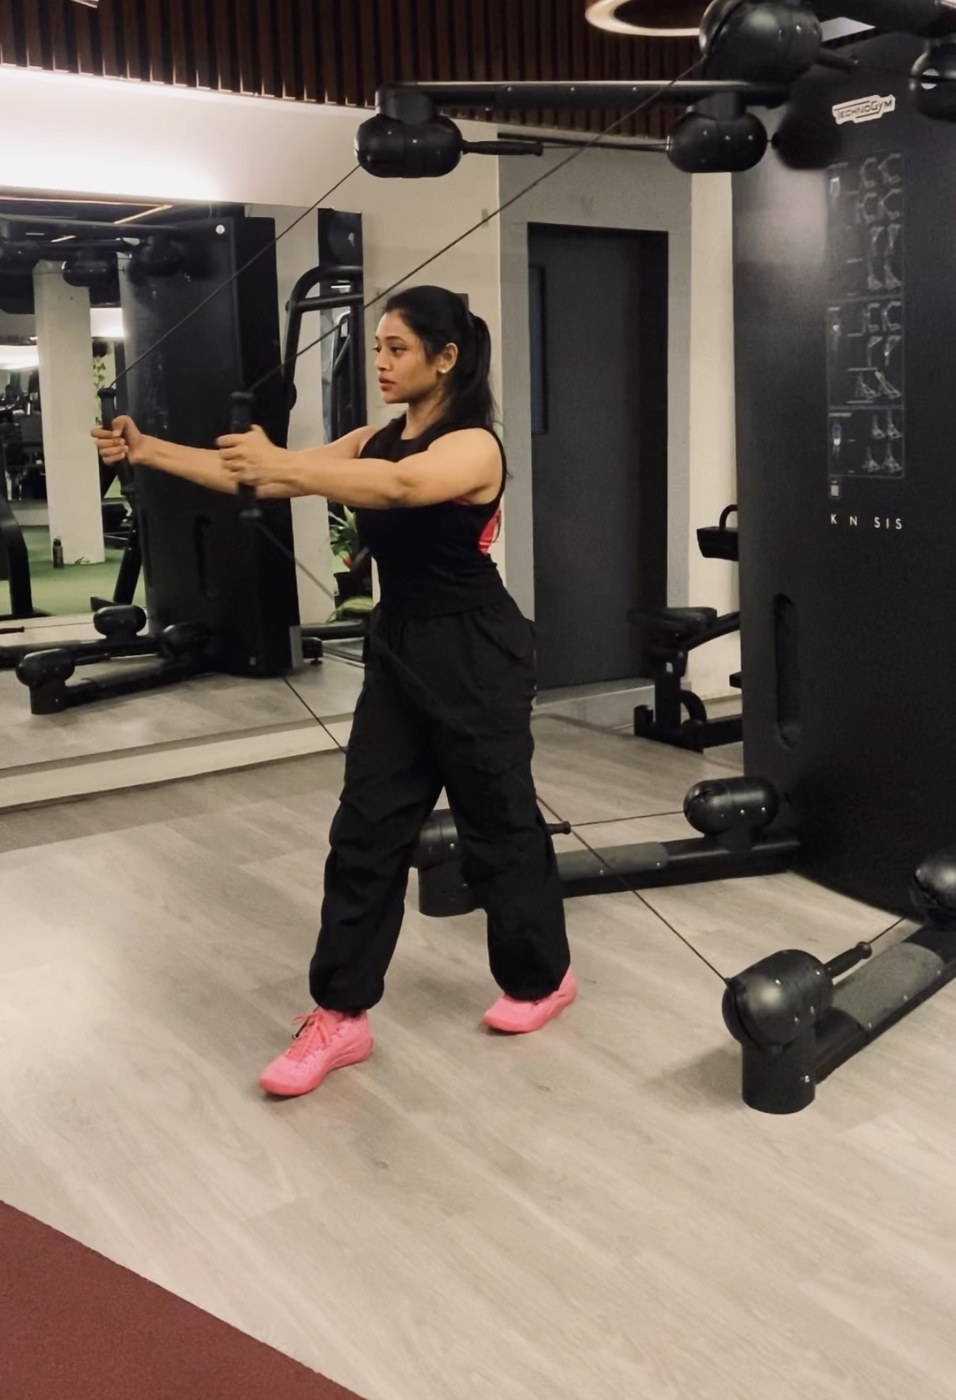
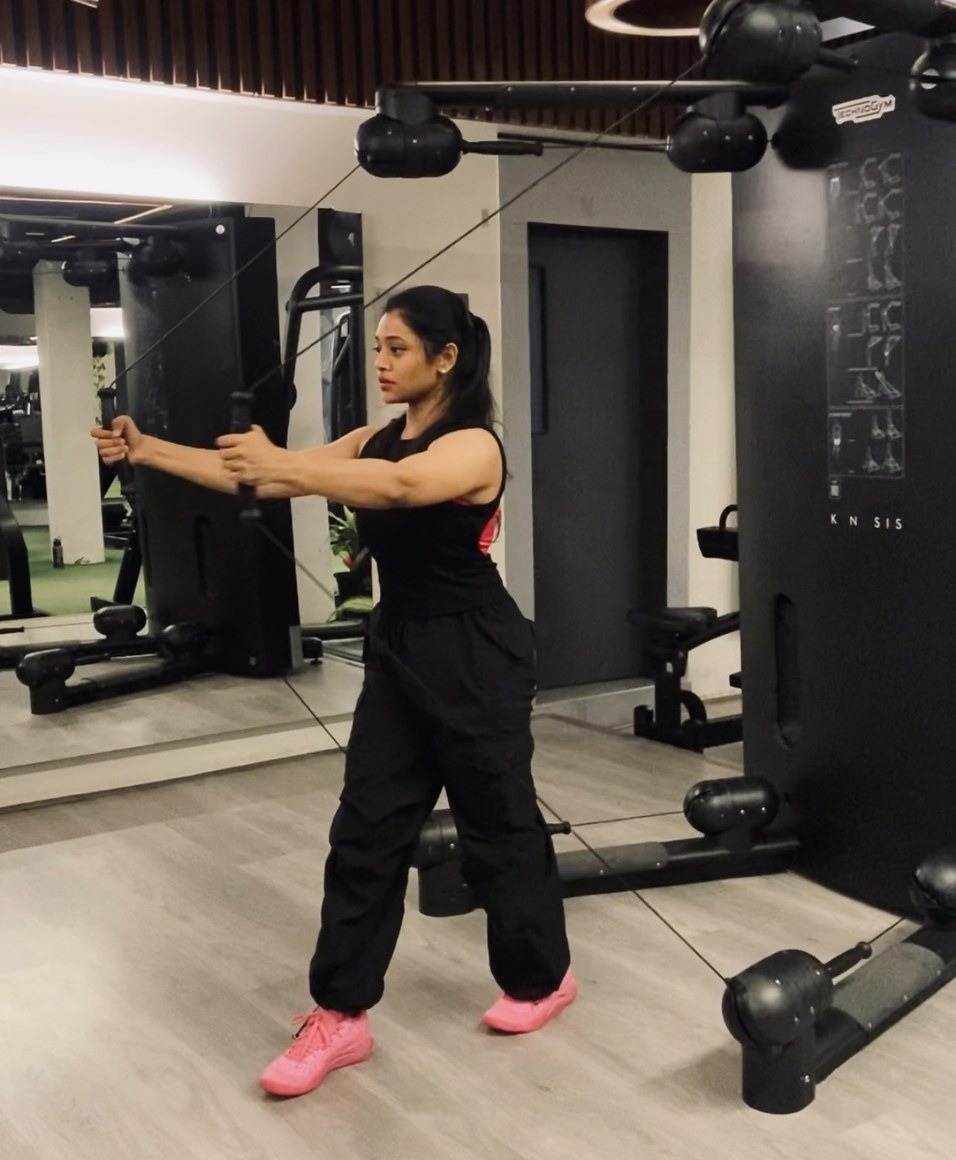
Crop training photo floor, enlarge coaching photo, add two more candid photos
- Crops excess empty floor from the training photo on the services page
  while keeping the shoes fully visible
- Increases the coaching photo size in the About page founder story
- Replaces the calculators page background with a new candid photo
- Adds a candid portrait as a low-opacity background on the contact page

diff --git a/calculators.html b/calculators.html
@@ -41,7 +41,7 @@
 <main>
 
   <div class="page-hero container">
-    <img src="images/meenu-candid.jpg" alt="" class="page-hero-photo-bg" aria-hidden="true">
+    <img src="images/meenu-breakfast.jpg" alt="" class="page-hero-photo-bg" aria-hidden="true">
     <p class="eyebrow">Free Tools</p>
     <h1>Nutrition Calculators</h1>
     <p>Quick estimates to get you oriented. These are general guides, not a substitute for a personalized plan.</p>

diff --git a/css/style.css b/css/style.css
@@ -599,7 +599,7 @@ section { padding: 64px 0; }
 
 .story-layout {
   display: grid;
-  grid-template-columns: 1fr 1.6fr 1fr;
+  grid-template-columns: 0.85fr 1.9fr 0.85fr;
   column-gap: 32px;
   align-items: center;
   margin: 2.4em 0;

diff --git a/contact.html b/contact.html
@@ -41,6 +41,7 @@
 <main>
 
   <div class="page-hero container">
+    <img src="images/meenu-desk-portrait.jpg" alt="" class="page-hero-photo-bg" aria-hidden="true">
     <p class="eyebrow">Get In Touch</p>
     <h1>Let's talk about your goals</h1>
     <p>Book a discovery call, or send a message if you'd like to ask something first.</p>